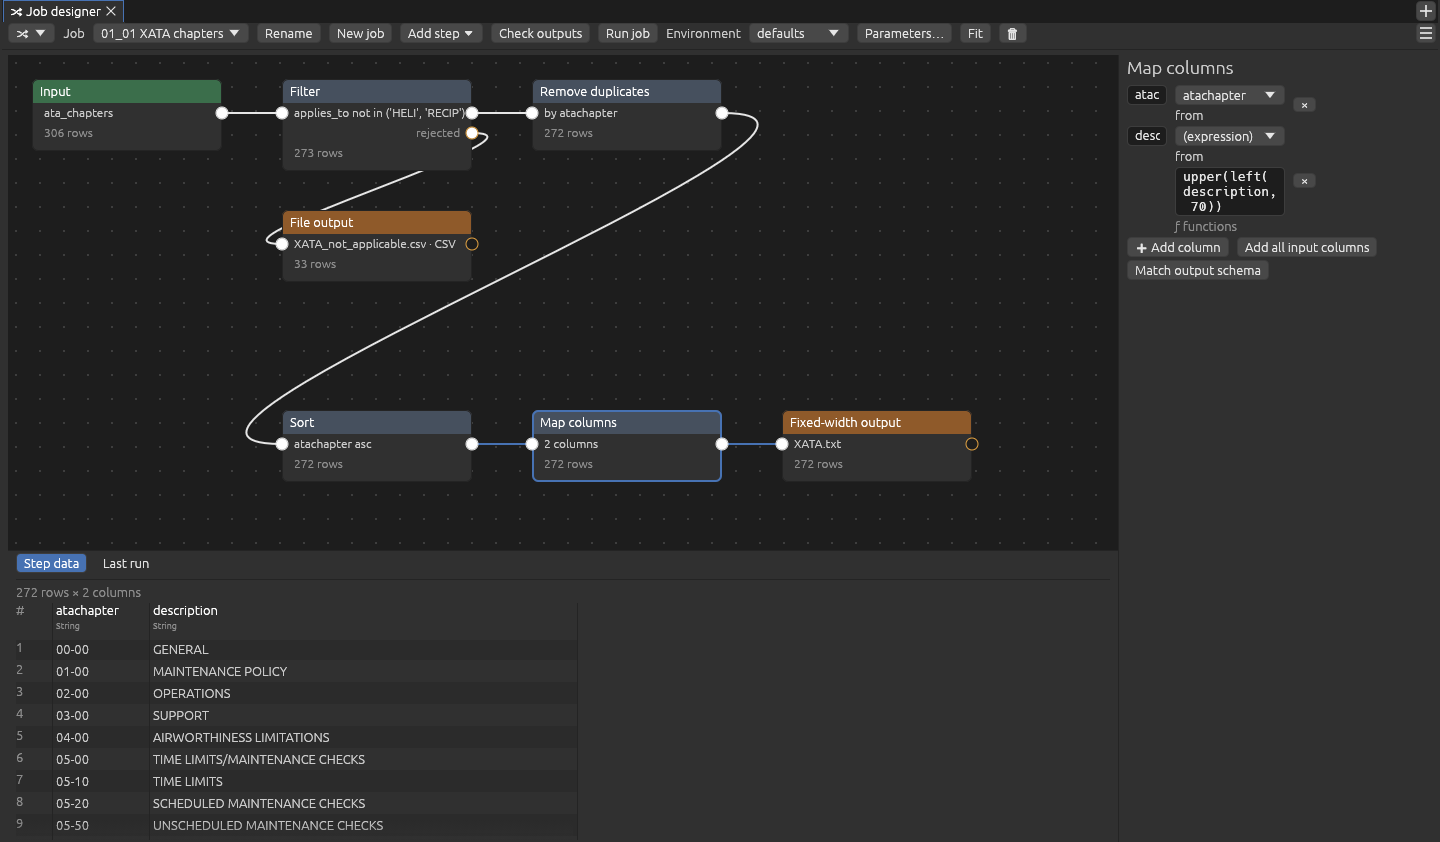
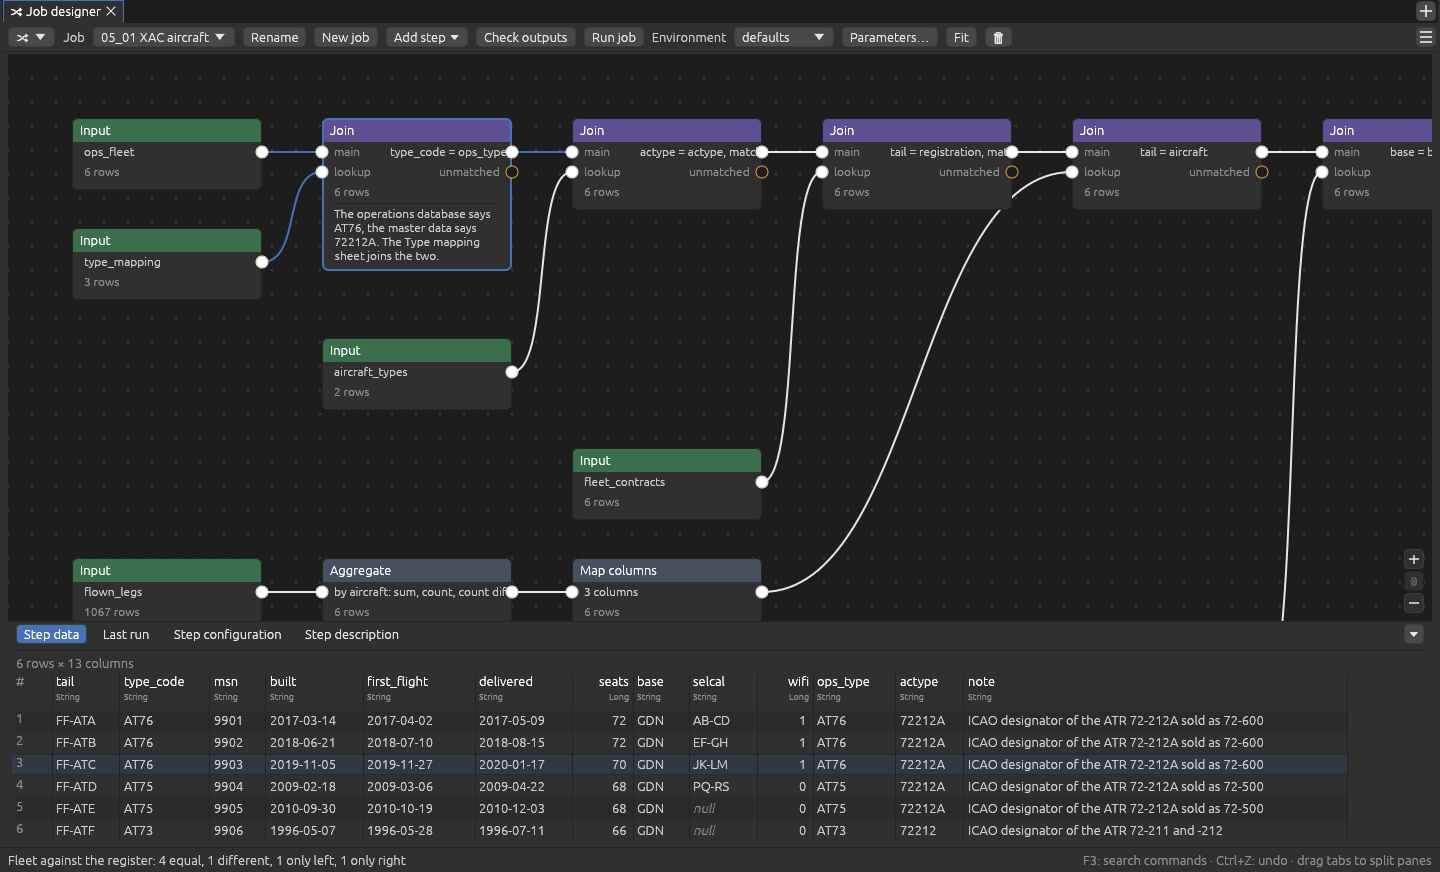
Update the README for dbdb 0.27.0

diff --git a/README.md b/README.md
@@ -10,7 +10,7 @@ It is one program with nothing else to install, it starts in a moment, and
 everything runs on your own machine: no account, no server, nothing sent
 anywhere.
 
-![The job designer: a Filter whose rejected rows go to a file of their own, and a Map step with an expression, its rows below](images/designer.png)
+![The job designer: joins that bring the operations database and the master data together, one with its description on the step, and the rows coming out of it below](images/designer.png)
 
 **[Download the latest release](https://github.com/koziserek/dbdb/releases/latest)**
 · [all releases](https://github.com/koziserek/dbdb/releases)
@@ -47,8 +47,9 @@ dbdb comes in four shapes that share one engine and one project file:
   and from declared relations.
 - **Runs jobs you design.** A job is a canvas of steps joined by wires:
   filter, sort, remove duplicates, join, append, aggregate, map columns with
-  expressions, and run other jobs. Every step shows its row count and its
-  rows, so you see what each step did to the data.
+  expressions, read and write whole files, ask a model for rows, and run
+  other jobs. Every step shows its row count and its rows, so you see what
+  each step did to the data. Jobs larger than memory spill to disk.
 - **Checks before it writes.** Duplicate keys, missing mandatory values,
   values too long for their column, formats that do not match, and fields
   that must or must not be filled depending on another field. Rows the
@@ -64,13 +65,29 @@ dbdb comes in four shapes that share one engine and one project file:
   what was not. dbdb is inspired by Talaxie and shares no code with it.
 - **Helps with SQL.** The Query pane checks a query as you type, points out
   what another database would reject, and previews the first rows.
-- **Works with an AI assistant.** `dbdb-cli guide` prints everything an
-  assistant needs to build a project from your inputs, and `dbdb-cli mcp`
-  offers the same over the Model Context Protocol.
+- **Shows how the data hangs together.** The Graph draws tables joined by
+  their keys, also for databases of thousands of tables, and key files add
+  and describe the keys a database does not declare.
+- **Compares the target with the source.** A comparison matches the rows of
+  two sources by key and shows what differs, with tolerances for numbers.
+- **Keeps what a migration needs.** Notes in Markdown, a history of every
+  run, schedules that run jobs by themselves, runs asked of another machine,
+  and a vault that keeps passwords out of the project file.
+- **Works on one project together.** Copies of the app that have one
+  project open see each other's changes within a second, through a shared
+  folder or a relay you run, which cannot read what it passes on.
+- **Works with an AI assistant.** The Assistant pane talks with a model on
+  your own machine (Ollama, llama.cpp), with Claude or with GitHub Copilot,
+  and changes the project only after asking. `dbdb-cli guide` prints
+  everything an outside assistant needs to build a project from your
+  inputs, and `dbdb-cli mcp` offers the same over the Model Context
+  Protocol.
 
 ![The Browser pane: each aircraft with its flights nested beside it](images/browser.png)
 
 ![The Query pane: a query with window functions, checked against six SQL dialects, and its first 1000 rows](images/query.png)
+
+![The Compare pane: the fleet in the database against the authority's register](images/compare.png)
 
 ## Download
 
